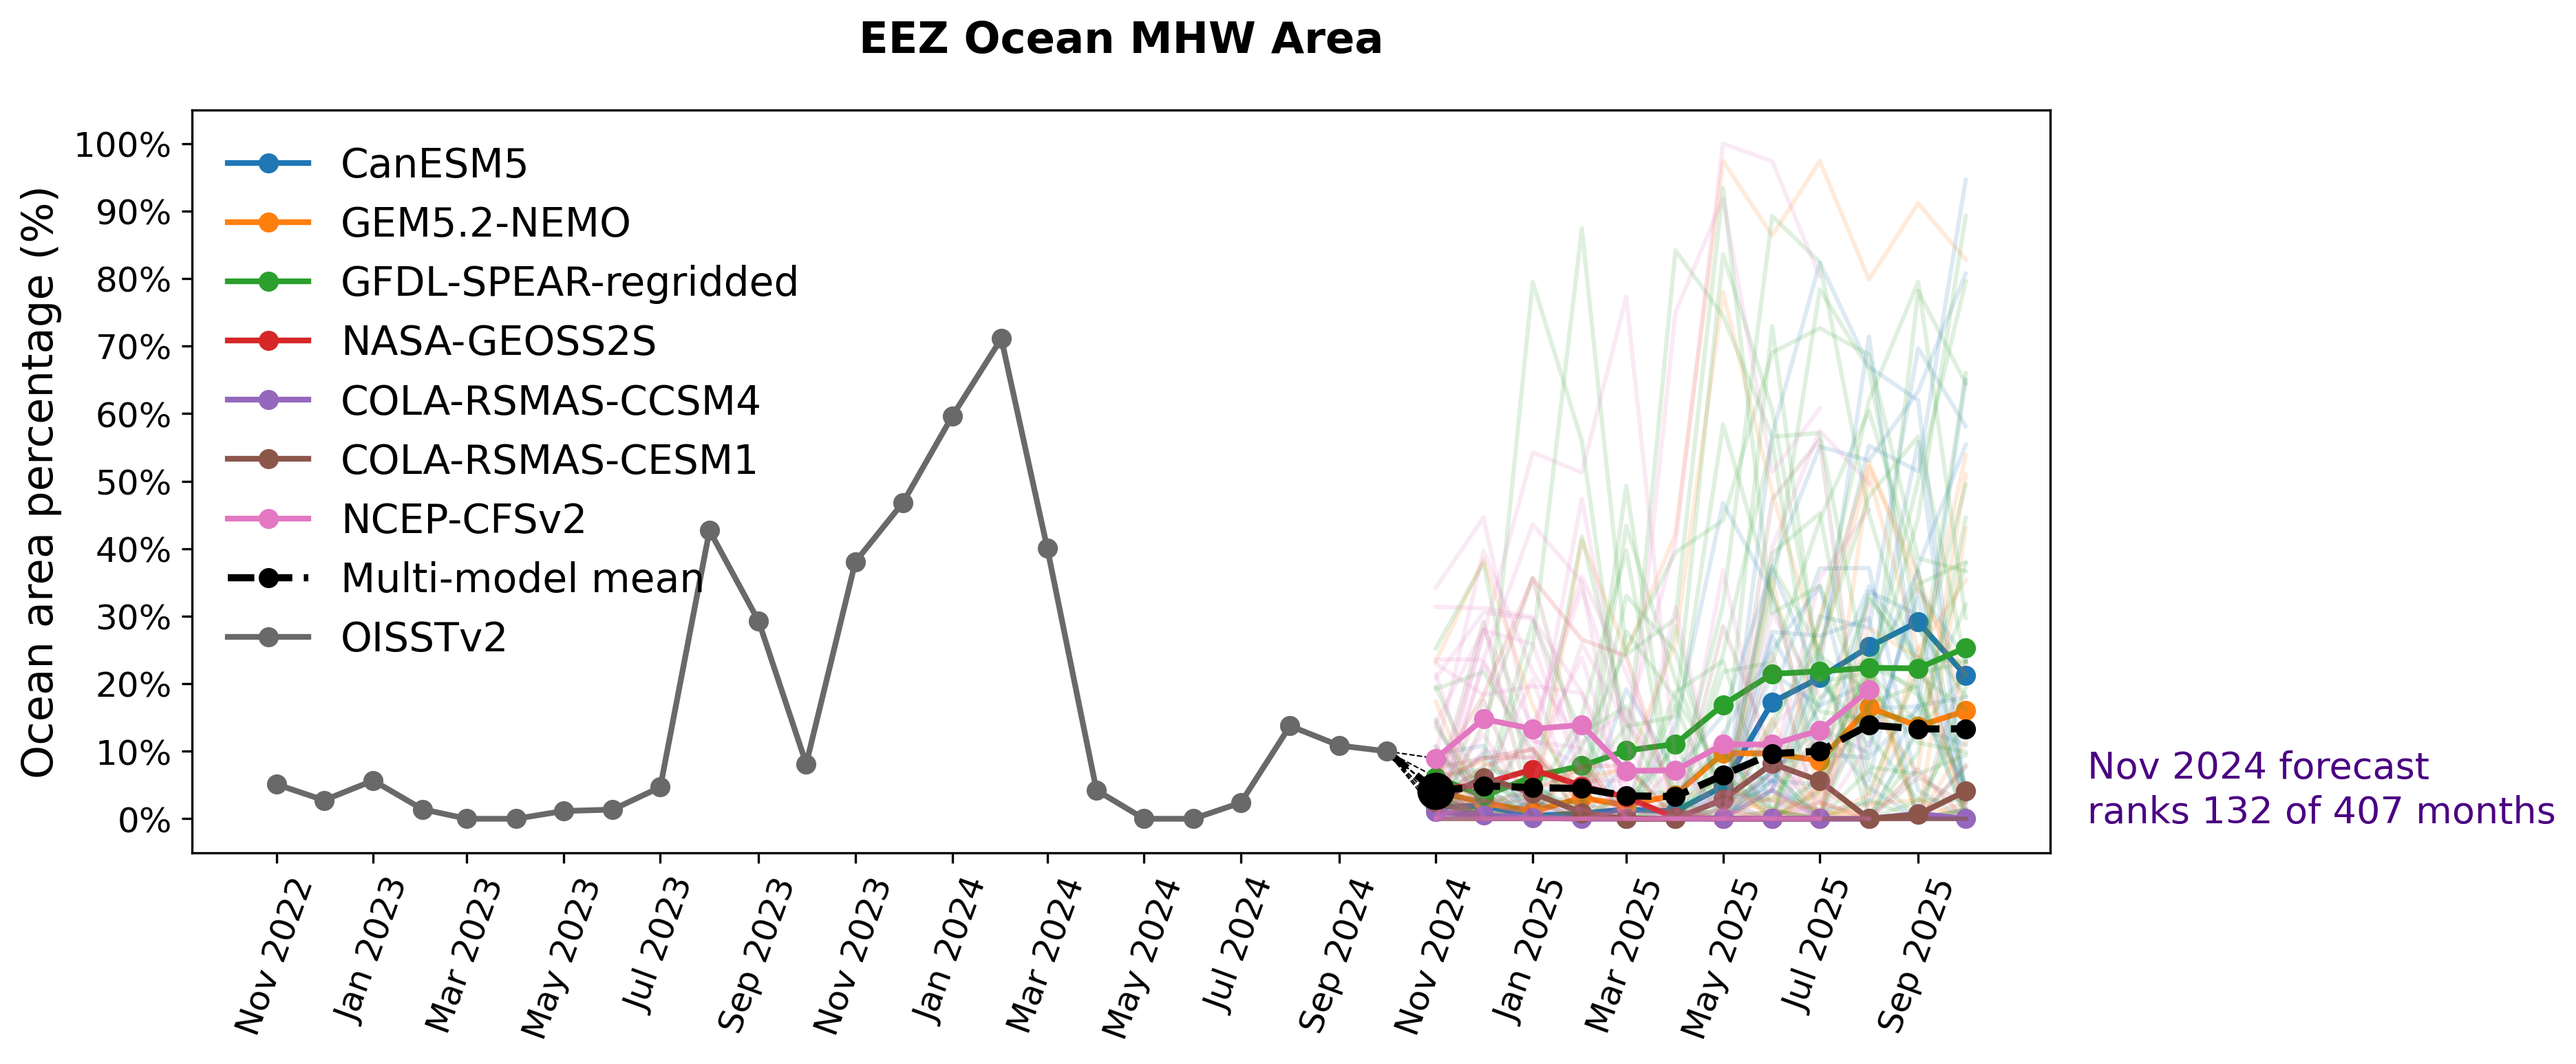
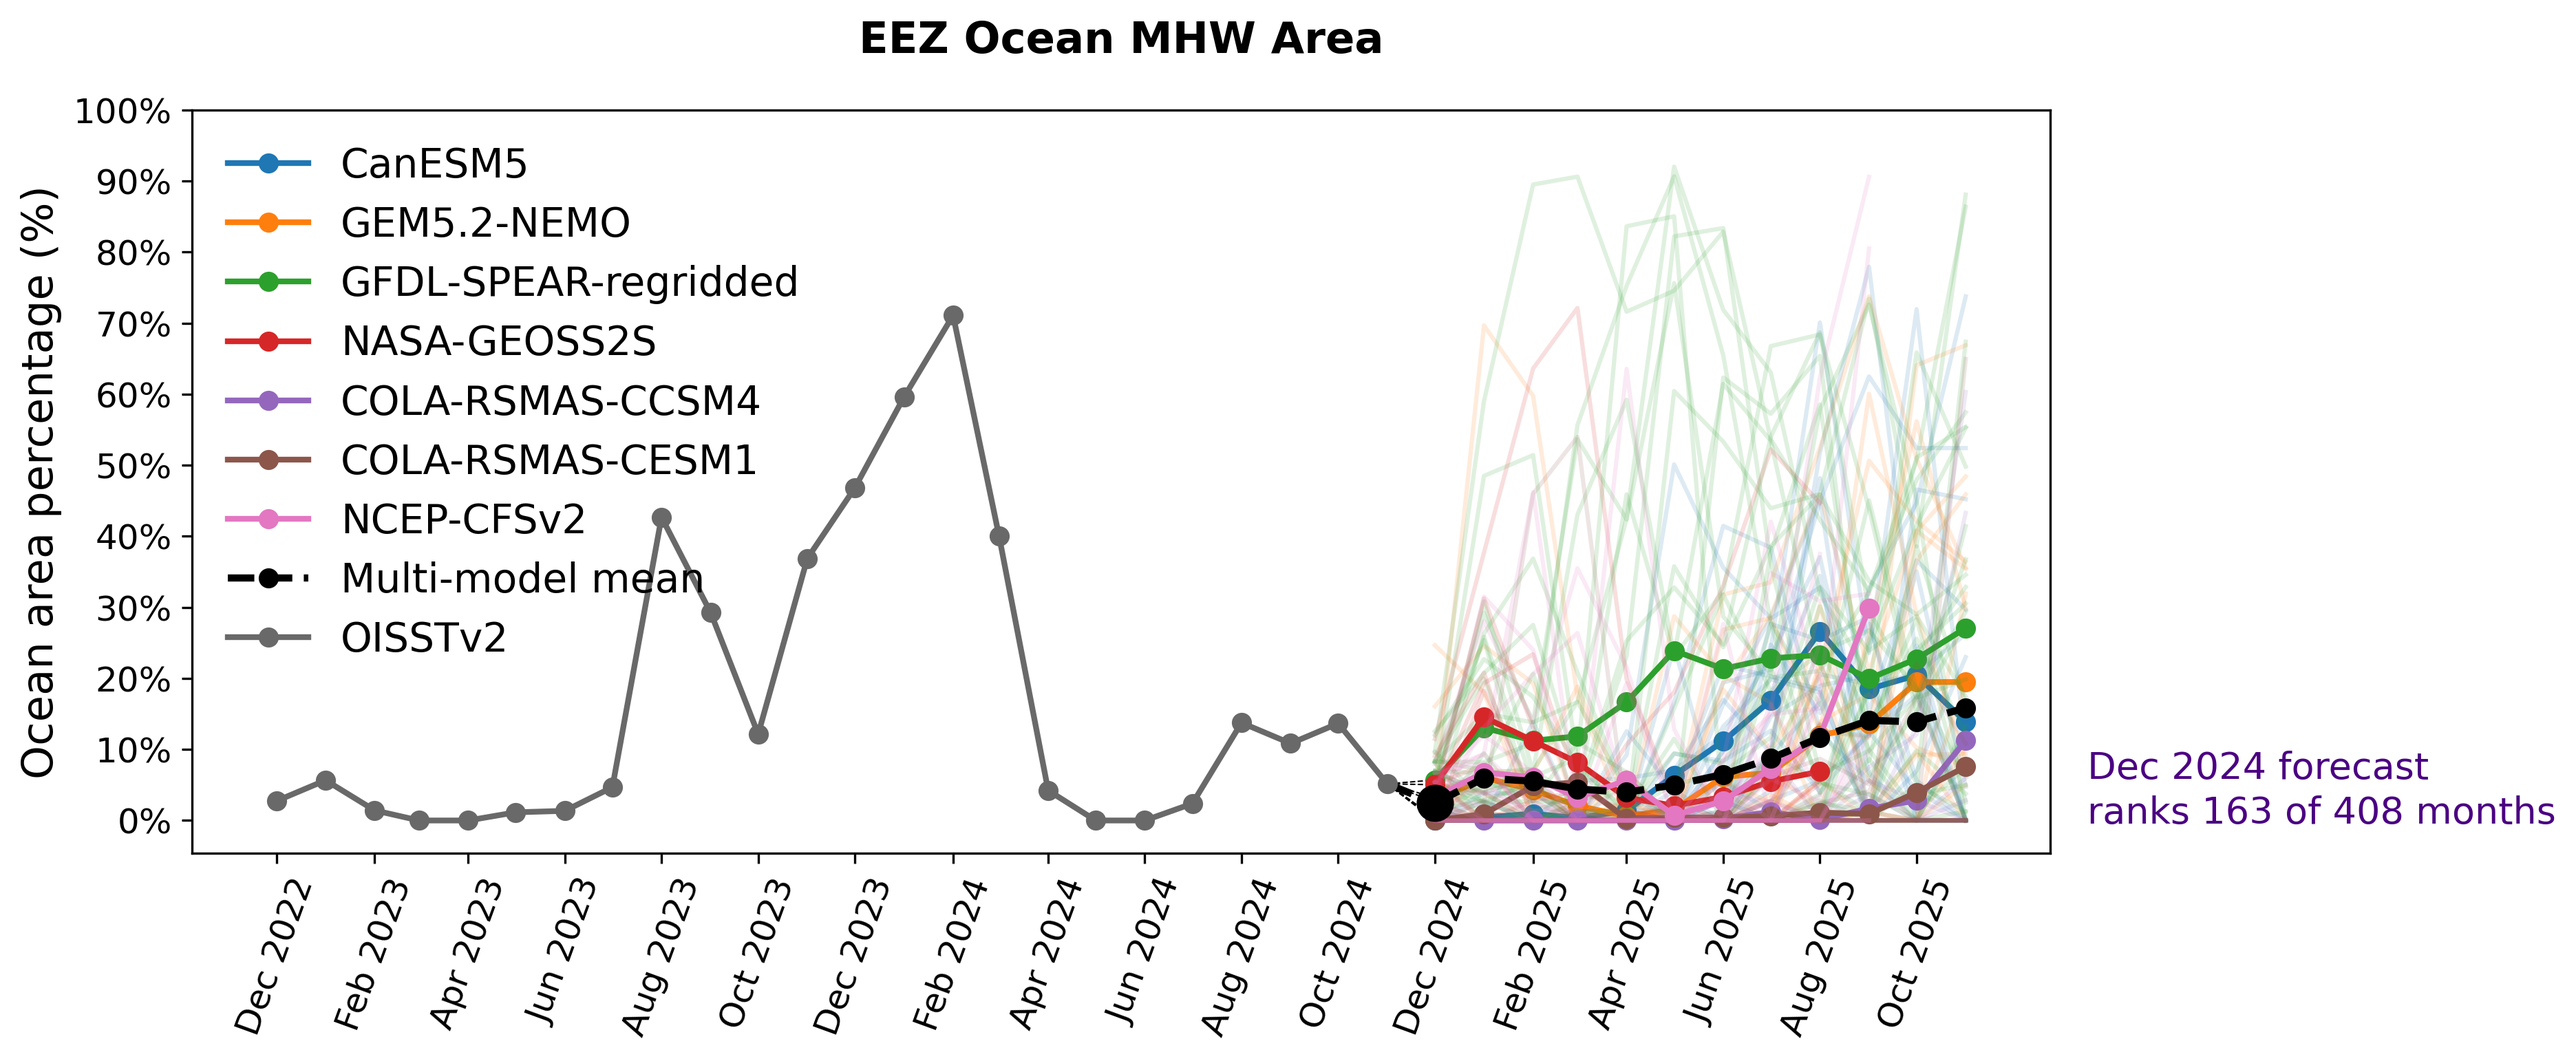
update from the templating

diff --git a/mhw_report_new.html b/mhw_report_new.html
@@ -34,8 +34,8 @@
       </a>
     </div>
     <div class="col-sm-6">
-      <h5 class="align-right">Forecast initial time <strong>November 2024</strong> </h5>
-      <h5 class="align-right">Forecast period <strong>November 2024 - October 2025</strong> </h5> 
+      <h5 class="align-right">Forecast initial time <strong>December 2024</strong> </h5>
+      <h5 class="align-right">Forecast period <strong>December 2024 - November 2025</strong> </h5> 
       <div class="align-right-container">
         <a href="https://list.woc.noaa.gov/listinfo/psl.mhw.forecast ">
           <button type="button" id="emailListBtn" class="btn btn-psl">Sign up mailing list for monthly marine heatwaves discussion</button>
